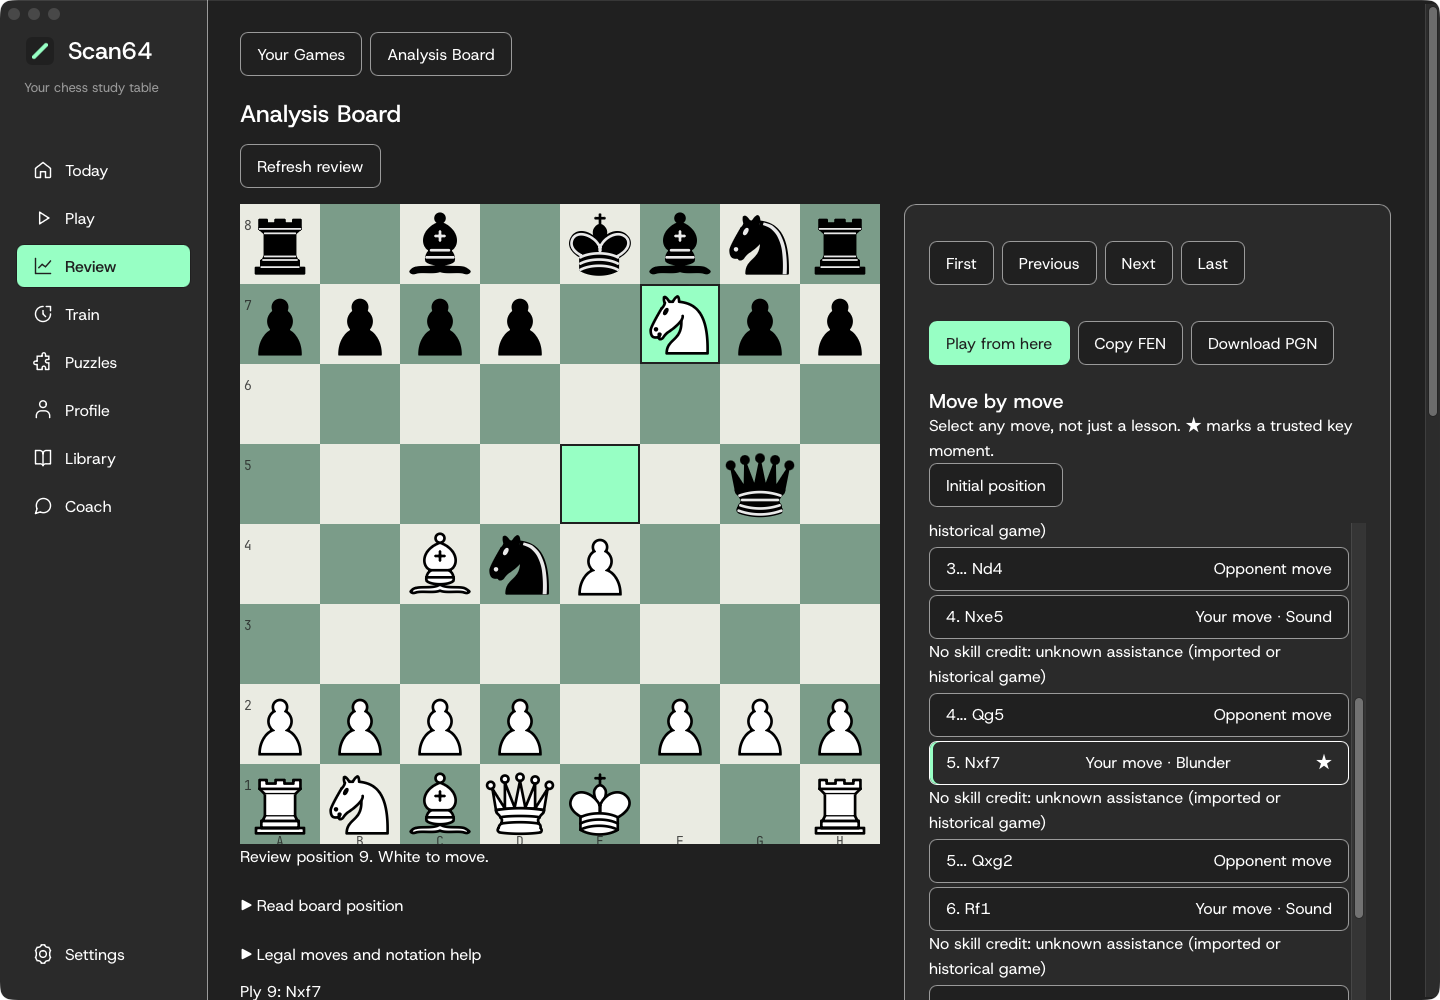
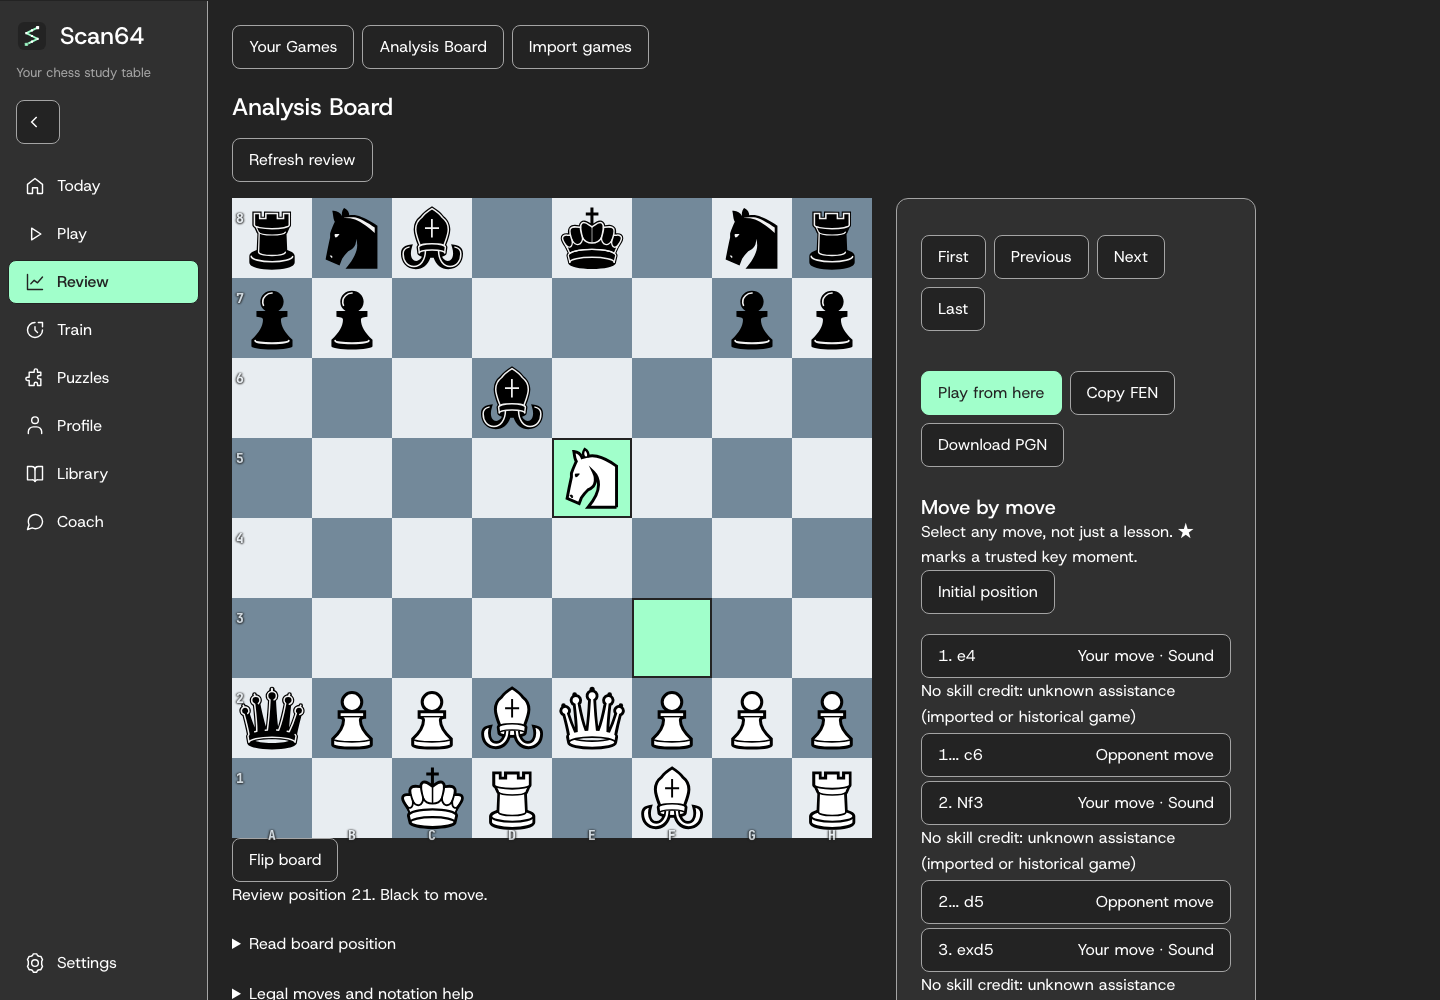
docs(readme): refresh for 1.0 with new captures
- Describe the released play, import, review, training, repertoire and progress workflows with their evidence limits.
- Replace all README UI media with dark headless captures using genuine app-imported games and CC0 puzzles; add the insufficient-data recurrence view.
- Preserve installer and 1.0 compatibility boundaries and remove stale pitch download/capture claims.

diff --git a/README.md b/README.md
@@ -12,7 +12,7 @@
 
 <p align="center">
   <b>A free, open-source chess coach that runs on your own computer.</b><br>
-  Play a bot at your level, ask for a hint when you're stuck, replay the moments that decided the game, and practise puzzles picked from your own mistakes.
+  Play, import your online games, review the moments that mattered, and practise lessons and puzzles with an engine checking your answers.
 </p>
 
 <p align="center">
@@ -28,70 +28,73 @@
 
 Most chess tools can tell you that a move was bad. Scan64 tries to help you see *why*, and then gives you something to practise. It is built for improving club players, roughly 600 to 1600, who keep losing to the same kinds of mistakes, but anyone who enjoys the game is welcome.
 
-- **Your games are the curriculum.** Lessons, reviews and patterns come from the games you play or import, checked by Stockfish.
-- **Hints that teach, not tell.** Hints come in three steps: a nudge, then the idea, then the move with arrows and a reason. You decide how much help you need.
-- **Honest about what it knows.** Scan64 shows you the evidence behind every pattern and goal. It does not claim to raise your rating.
-- **Private by default.** Everything runs locally. Your games and progress stay in a database on your machine, and you can export them or delete your player data whenever you like. See [Stable from 1.0](#stable-from-10) for the tested compatibility boundary.
+- **Your games are the curriculum.** Import by Lichess or Chess.com username, paste a PGN, or play here. Stockfish turns supported mistakes into lessons and evidence-linked patterns.
+- **Help at the right depth.** Three-step hints go from a nudge to the idea to sound moves. Candidates and an optional blunder guard let you examine choices before committing.
+- **Evidence, not promises.** Profile shows game insights, recurring patterns and before/after recurrence with sample sizes. A change is not proof that training caused it, or that your rating improved.
+- **Local-first.** Games and progress stay on your computer. Online imports, desktop updates and optional local model wording have explicit network boundaries; no online Scan64 account is needed. See [Stable from 1.0](#stable-from-10) for the compatibility boundary.
 
 ## See it in action
 
-These recordings and screenshots are from the **published v0.7.0 macOS app window**, using demonstration games and a small sample of the Lichess CC0 puzzle catalog. The same client runs on all three desktop platforms.
+These are **headless Chromium captures of the current React client**, at 1440 × 1000 in dark mode, with the new knight's-tour logo. They use a disposable demo player, public Lichess games and genuine CC0 puzzles—not the owner's data or native desktop windows. The desktop app runs the same client.
 
 ### Play a bot and ask for a hint
 
-Pick one of eight bot levels and a colour, take moves back while you learn, and step through the hint ladder when you're stuck.
+Pick one of eight relative bot levels, a colour and an optional clock. Untimed games allow takebacks; hints reveal a nudge, an idea, then sound moves with arrows and reasons.
 
 <p align="center"><img src="assets/demo-play-hints.gif" alt="Playing a bot game in Scan64 and stepping through the three-step hint ladder until arrows and a reason appear" width="860"></p>
 
-### Review the moments that decided the game
+### Turn a reviewed mistake into practice
 
-After a game, Scan64 analyses your moves with Stockfish and shows an accuracy figure, an evaluation graph and up to three key moments, each of which you can retry on the board.
+Replay every move with Stockfish accuracy and coverage, an evaluation graph, and up to three trusted key moments to retry. Daily Training brings your eligible lessons back on a review schedule; this recording follows a real game-derived lesson through hints to a server-verified answer. The Analysis Board also lets you explore up to three engine lines and save variations as PGN.
 
-<p align="center"><img src="assets/demo-review.gif" alt="Selecting a blunder on the review board, reading its evaluation graph and accuracy coverage, then inspecting the game's two verified key moments" width="860"></p>
+<p align="center"><img src="assets/demo-review.gif" alt="Daily Training on a position from an imported game: revealing three hints, inspecting candidate arrows, then recording a correct hinted answer" width="860"></p>
 
 ### Practise puzzles
 
 Solve multi-move puzzles from the free Lichess puzzle database. Scan64 keeps a separate puzzle rating, builds a daily set and lets you practise by theme or revisit your misses.
 
-<p align="center"><img src="assets/demo-puzzles.gif" alt="Solving a multi-move puzzle in Scan64" width="860"></p>
+<p align="center"><img src="assets/demo-puzzles.gif" alt="Revealing hints for Lichess puzzle 001wR, playing its three solver moves and reaching the recorded Puzzle solved result" width="860"></p>
 
 <table>
   <tr>
-    <td width="33%"><a href="assets/screenshot-today.png"><img src="assets/screenshot-today.png" alt="The v0.7.0 Today screen with Play, Train and Review actions"></a></td>
-    <td width="33%"><a href="assets/screenshot-review.png"><img src="assets/screenshot-review.png" alt="The v0.7.0 review board with a selected blunder marked as a key moment"></a></td>
-    <td width="33%"><a href="assets/screenshot-profile.png"><img src="assets/screenshot-profile.png" alt="The v0.7.0 Profile cropped to the declared starting level, suggested bot level and introductory daily-puzzle progress"></a></td>
+    <td width="50%"><a href="assets/screenshot-today.png"><img src="assets/screenshot-today.png" alt="Today with Play, Train and Review actions, a declared Club starting point, daily puzzle progress and the latest analysed game"></a></td>
+    <td width="50%"><a href="assets/screenshot-review.png"><img src="assets/screenshot-review.png" alt="Review of an imported maia1 game at Nxe5, a trusted key moment before Black's mating reply"></a></td>
   </tr>
   <tr>
-    <td align="center"><b>Today</b>: what to do next</td>
-    <td align="center"><b>Review</b>: where the game turned</td>
-    <td align="center"><b>Profile</b>: your starting point</td>
+    <td align="center"><b>Today</b>: choose your next session</td>
+    <td align="center"><b>Review</b>: inspect a turning point</td>
+  </tr>
+  <tr>
+    <td><a href="assets/screenshot-profile.png"><img src="assets/screenshot-profile.png" alt="Profile game insights with scored move counts by phase, colour and opening, plus clock-pressure coverage"></a></td>
+    <td><a href="assets/screenshot-patterns.png"><img src="assets/screenshot-patterns.png" alt="Profile before/after hanging-piece recurrence: three qualifying games before training, none after, rates unavailable and the non-causal caveat"></a></td>
+  </tr>
+  <tr>
+    <td align="center"><b>Insights</b>: read scores with coverage</td>
+    <td align="center"><b>Progress</b>: sample sizes, not promises</td>
   </tr>
 </table>
 
 ## What you can do
 
-| Play | Learn | Track |
+| Play and review | Practise | Understand your progress |
 | --- | --- | --- |
-| Eight bot levels, either colour, take-backs and resignation | Three-step hints with tactical reasons and positional principles | Today dashboard with daily goals and a calendar streak |
-| Import your own PGN games | Per-move game review with key moments and retries | Your costliest recurring pattern, with the positions behind it |
-| Keyboard move entry and narrow-screen play | Lessons from your mistakes that accept the sound alternatives the engine verifies | Separate puzzle rating and bot-level trends |
-| Optional human-like opponents with [Maia](docs/maia.md) | Daily puzzle sets, theme practice, solve streaks | Player-scoped [export, import and deletion](docs/user-guide.md#data-and-privacy) |
+| Eight bot levels; untimed or 1+0, 3+2, 5+0 and 10+5 | Engine-checked lessons; FSRS-scheduled lesson and eligible puzzle reviews | Game insights by phase, colour and opening; clock-pressure coverage when available |
+| Three-step hints, Candidates and opt-in blunder guard | **Safe or blunder**: choose a sound move over your played mistake | Recurring patterns with source positions, game counts and scored coverage |
+| **Review → Import games**: Lichess/Chess.com username or PGN | **Convert the win**: separate sparring from eligible review positions | Before/after pattern recurrence with game/move counts, intervals and insufficient-data states—not a causal claim |
+| Per-move review, key moments and an Analysis Board with engine lines | Daily puzzles, theme runs, missed-puzzle retries and a separate puzzle rating | Daily goals, calendar streaks, named skills and separate timed/assisted result cohorts |
+| Premoves, annotations, keyboard moves and board appearance choices | Import a repertoire PGN, practise due decisions and compare imported-game deviations | Download a local coach packet with a pattern summary and annotated PGN evidence |
 
-Import a PGN [repertoire for scheduled practice](docs/user-guide.md#practise-a-repertoire) and compare it with your imported games. Profile can save a [coach evidence packet](docs/user-guide.md#progress-beforeafter-pattern-recurrence). [Local wording with Ollama](docs/user-guide.md#optional-local-explanation-wording) is optional; built-in templates need no model.
+**Library → Community lesson packs** installs local JSON packs and re-verifies their solver moves with your engine. Pack play **never changes progress or review schedules**; keep the original files because player exports exclude packs. Optional [Maia opponents](docs/maia.md) require operator-provided weights.
 
 ## How it works
 
-```mermaid
-flowchart LR
-  A[Play a bot or import a PGN] --> B[Stockfish analyses your moves]
-  B --> C[Mistakes become evidence]
-  C --> D[One diagnosed cause per mistake]
-  D --> E[Lessons, reviews and puzzles]
-  E --> F[Verified attempts update your profile]
-  F --> A
+```text
+Play or import → Stockfish analysis → supported diagnosis → lesson → verified answer
+       ↑                                                     ↓
+       └──────────── Profile evidence and scheduled practice ┘
 ```
 
-Every lesson answer is checked by the engine or a tablebase before it can change your profile. Patterns only count evidence from your own moves, and the coverage behind each figure is always shown. See the [system overview](docs/system-overview.md) for details.
+Lesson answers are checked on the server before they update skills and matching review schedules; hints remain app-reported. Patterns use your own moves and show their evidence coverage. Related puzzle themes are practice, not a new diagnosis. [Optional local Ollama wording](docs/user-guide.md#optional-local-explanation-wording) is off by default: built-in explanations need no model, and generated wording must pass evidence checks. See the [system overview](docs/system-overview.md).
 
 ## Get started
 
@@ -205,7 +208,10 @@ SCAN64_DATABASE_URL="sqlite:////absolute/path/to/scan64.db" uv run scan64-cli se
 
 ### Your first session
 
-Enter a display name and choose **Start learning**. Tell Scan64 roughly how strong you are and it suggests a bot level. From **Today** you can Play, Train or Review. **Review → Import games** brings in your Lichess or Chess.com games by username or a pasted PGN; **Library** holds the study screens.
+1. Enter a display name and choose **Start learning**. Declare a starting level for an overridable bot suggestion—not an Elo estimate.
+2. From **Today**, play a bot or use **Review → Import games** for a Lichess/Chess.com username or PGN. Let analysis finish, then inspect a key moment and retry it.
+3. Open **Train** for a lesson or **Safe or blunder**, or start **Convert the win** from an eligible review. Profile shows game insights and patterns; sparse before/after samples say **Not enough games**.
+4. Explore **Library** for repertoires and community packs. Use **Settings → Send feedback** to preview a GitHub issue draft; Scan64 sends nothing itself.
 
 Puzzles need a one-time import of the free [Lichess puzzle database](https://database.lichess.org/#puzzles) (CC0). Nothing is downloaded automatically:
 
@@ -248,7 +254,7 @@ The internal HTTP API, CLI flags and UI layout are not stable interfaces. Untest
 ### Optional extras
 
 - **Maia weights.** Scan64 never bundles, downloads or hosts Maia weights. If you have the right to use a checkpoint, follow the [Maia guide](docs/maia.md).
-- **LLM wording.** Explanations are deterministic templates by default. An operator can configure a provider through `SCAN64_LLM_CONFIG`; generated text is validated against the diagnosis evidence before use.
+- **Local wording.** Opt into an installed Ollama model in **Settings → Local explanation wording**. It can reword new explanations, not change engine verdicts; unavailable or rejected wording falls back to built-in templates. See the [privacy boundary](docs/user-guide.md#optional-local-explanation-wording).
 
 ## Contributing
 

diff --git a/docs/pitch.md b/docs/pitch.md
@@ -34,9 +34,9 @@ Keyboard move entry (strict UCI or canonical English SAN), readable chess positi
 
 ## Use and evaluate it
 
-Download the published [v0.7.0 installers](https://github.com/Mathews-Tom/Scan64/releases/tag/v0.7.0): macOS `.dmg`, Windows `-setup.exe`, or Linux `.AppImage` / `.deb`. The desktop app opens one window and bundles Python and Stockfish; no developer tools or separate engine installation are needed. It offers puzzle download/import with progress, signature-checked updates on macOS, Windows and AppImage, and an explicit **Restart to update** action. Debian packages link to the release download instead of self-updating.
+Download the [latest published installers](https://github.com/Mathews-Tom/Scan64/releases/latest): macOS `.dmg`, Windows `-setup.exe`, or Linux `.AppImage` / `.deb`. The desktop app opens one window and bundles Python and Stockfish; no developer tools or separate engine installation are needed. It offers puzzle download/import with progress, signature-checked updates on macOS, Windows and AppImage, and an explicit **Restart to update** action. Debian packages link to the release download instead of self-updating.
 
-Follow the [README install steps and native-window demos](../README.md#get-started), or run the one-port source application or a locally built Docker image. All installers are unsigned; macOS builds are ad-hoc signed and not notarized. Version 0.6.1 and earlier cannot update to 0.7.0 automatically, and their data is not migrated. No hosted service or published container image is provided. The [user guide](user-guide.md) covers the play-to-training workflow, OS warnings, updates and local data. The local quality gate is:
+Follow the [README install steps and client demos](../README.md#get-started), or run the one-port source application or a locally built Docker image. Installers are not operating-system signed; macOS builds are ad-hoc signed and not notarized. Version 0.6.1 and earlier cannot update to the unified desktop app automatically, and their data is not migrated. No hosted service or published container image is provided. The [user guide](user-guide.md) covers the play-to-training workflow, OS warnings, updates and local data. The local quality gate is:
 
 ```sh
 scripts/check.sh
